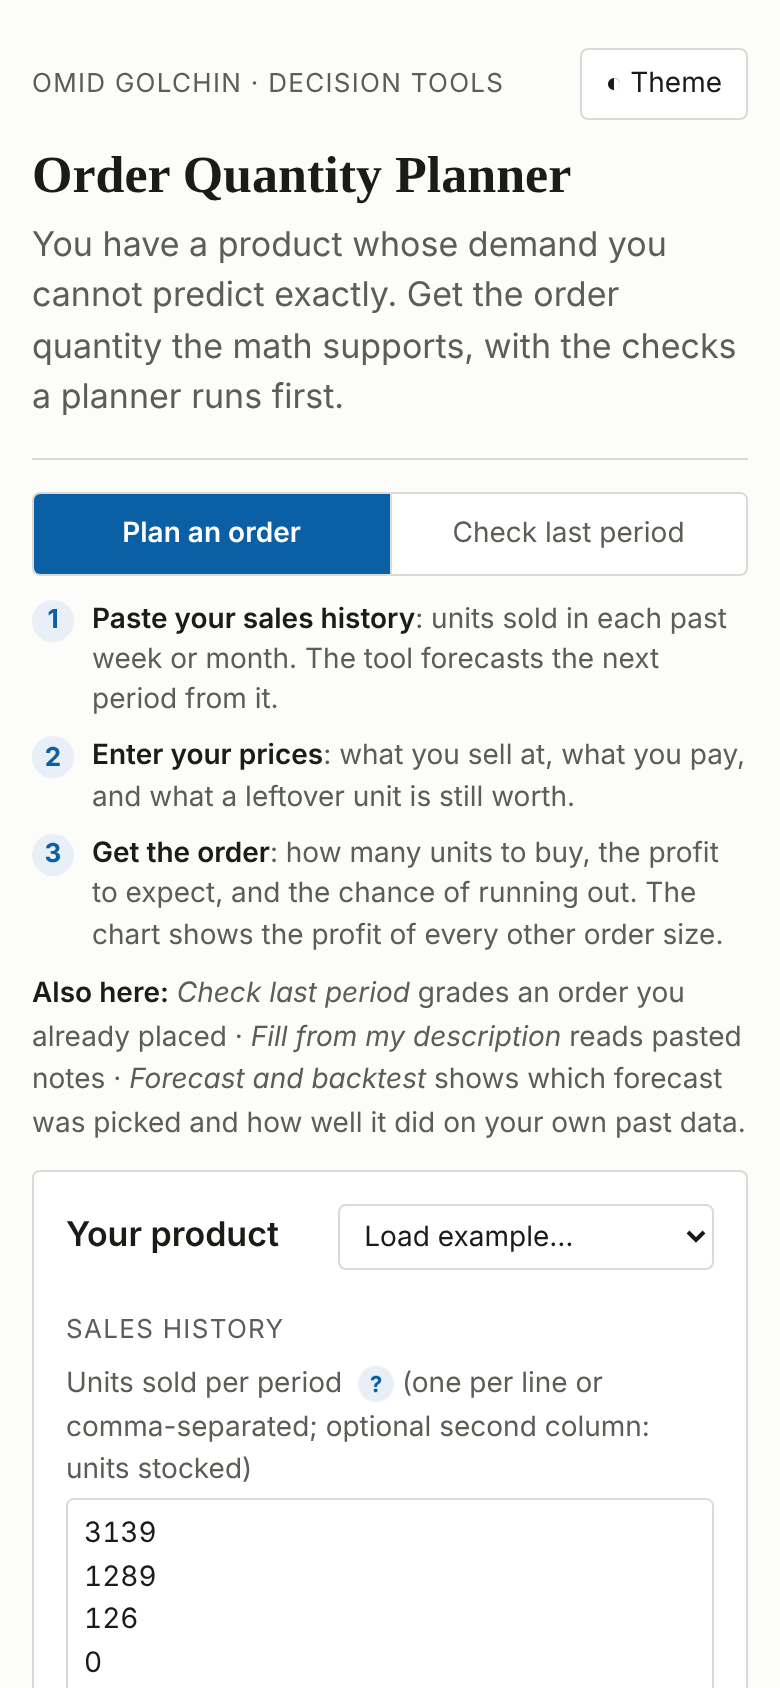
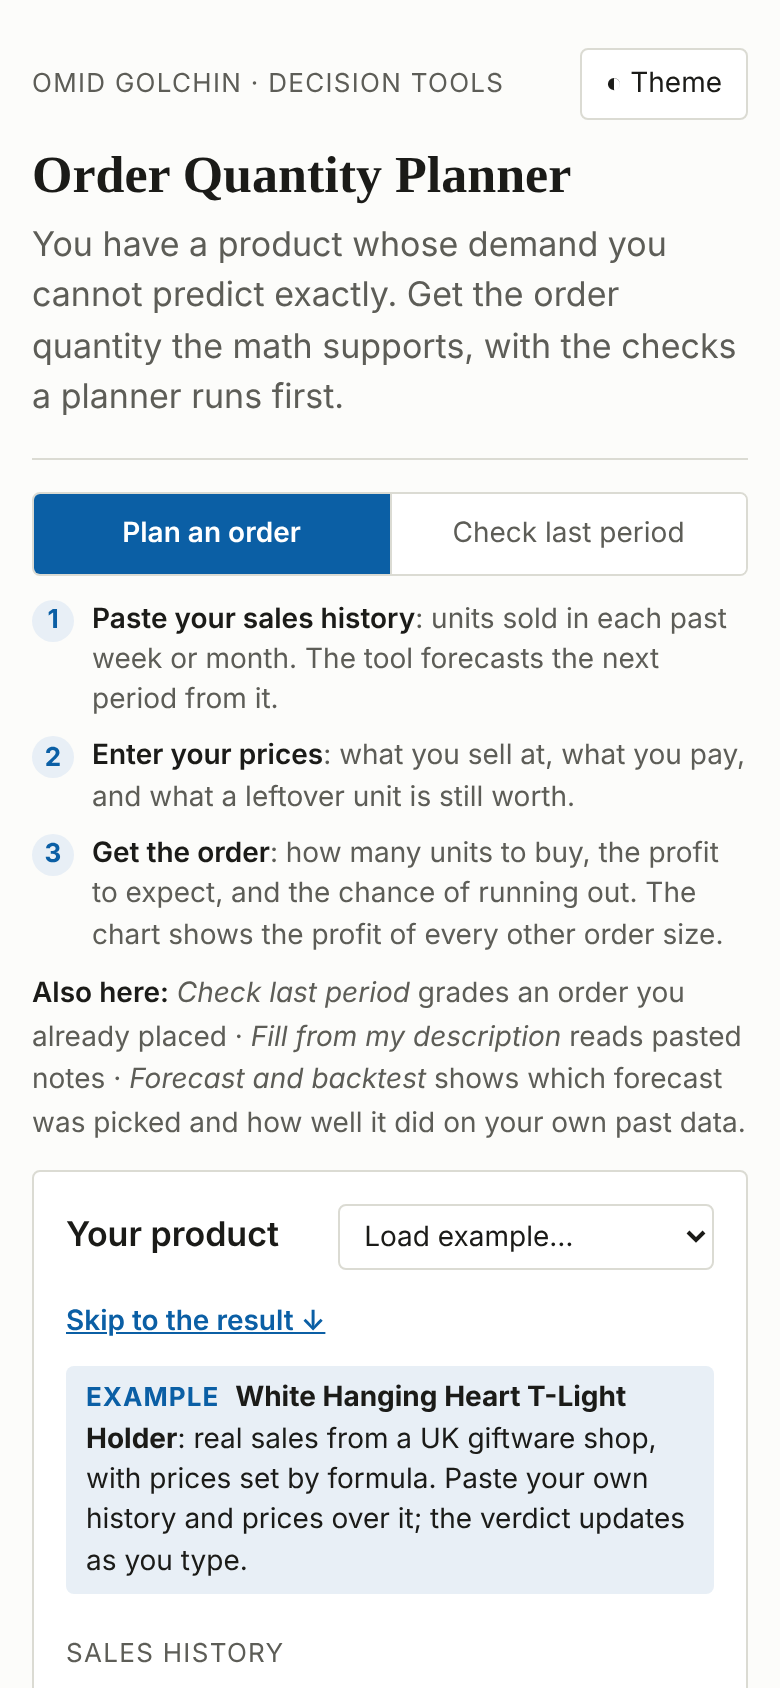
Mark the example where it sits; name the plan's product and prices in the grade; explain quantiles; one history rule
Kit: every ? has a hover title, a Skip to the result link on narrow screens, and an example banner for prefilled demo content. README, hero GIF and screenshots regenerated from the page.

Changed region(s): [[0.0615, 0.7701, 0.8923, 0.9858]]

diff --git a/docs/app.js b/docs/app.js
@@ -78,6 +78,7 @@
       $("price").value = pr.price; $("cost").value = pr.cost; $("salvage").value = pr.salvage; $("goodwill").value = "";
     }
     $("historyHint").textContent = p.name + " · " + slot.history.length + " " + per + "s of sales (Online Retail II, UCI, CC BY 4.0). Prices start at the product's median price; cost at 60% of it.";
+    Tool.exampleBanner($("f-plan"), "<b>" + p.name + "</b>: real sales from a UK giftware shop, with prices set by formula. Paste your own history and prices over it; the verdict updates as you type.");
   }
   function currentDist(series, stock, period) {
     if (source.type === "product") {
@@ -173,9 +174,9 @@
 
   function renderChecks() {
     var plan = cur.plan, v = cur.prices, dist = cur.dist, out = [];
-    out.push(["info", "RATIO", "Critical ratio", "Your prices aim to cover demand " + F.pct(plan.ratio, 0) + " of the time: (" +
+    out.push(["info", "ORDER LEVEL", "Critical ratio", "Your prices aim to cover demand " + F.pct(plan.ratio, 0) + " of the time: (" +
       amt(v.price) + " − " + amt(v.cost) + (v.goodwill ? " + " + amt(v.goodwill) : "") + ") / (" + amt(v.price) + " − " + amt(v.salvage) +
-      (v.goodwill ? " + " + amt(v.goodwill) : "") + "). The order is the demand quantile at that level."]);
+      (v.goodwill ? " + " + amt(v.goodwill) : "") + "). The order is the demand quantile <button type=\"button\" data-tip=\"quantile\"></button> at that level: the amount that demand stays at or below " + F.pct(plan.ratio, 0) + " of the time."]);
     if (dist.intermittent) {
       out.push(["warn", "SPARSE", "Intermittent demand", F.pct(dist.zeroShare, 0) + " of periods sold nothing, so ETS and ARIMA are set aside: the plan samples your past periods directly."]);
     } else if (dist.backtest) {
@@ -197,7 +198,7 @@
       out.push(["info", "NOTE", "Censored demand", "No stock column, so sales are taken at face value. If you sold out in some periods, add a second column with the stock you held: those sales hide demand."]);
     }
     if (plan.state === "warn") {
-      out.push(["warn", "THIN", "History", "Only " + cur.series.length + " periods (" + cur.series.filter(function (x) { return x > 0; }).length + " with any sales). More history would tighten this a lot."]);
+      out.push(["warn", "THIN", "History", "Only " + cur.series.length + " periods (" + cur.series.filter(function (x) { return x > 0; }).length + " with any sales). The tool runs from 3 periods, races forecast methods from 20, and trusts the forecast fully from " + (cur.prices.period === "month" ? "12 months" : "26 weeks") + " with at least 12 periods of sales."]);
     } else if (plan.state === "good") {
       out.push(["ok", "OK", "History", cur.series.length + " periods: enough to race the forecast methods and judge the winner."]);
     }
@@ -311,7 +312,10 @@
     else if (gap > tol) { title = "You left about " + money(gap) + " on the table"; cls = "warn"; }
     else if (ordered > r.planOrder && !ranOut && sold < ordered) { title = "You ordered more than the plan, and it shows"; cls = "warn"; }
     else title = "Close to the plan";
-    var body = "The plan would have ordered " + F.int(r.planOrder) + " units; you ordered " + F.int(ordered) + " and sold " + F.int(sold) +
+    var basis = (source.type === "product" && byId[source.id] ? byId[source.id].name : "your pasted sales history") +
+      " at price " + amt(v.price) + ", cost " + amt(v.cost) + ", leftover worth " + amt(v.salvage) + (v.goodwill ? ", lost-sale cost " + amt(v.goodwill) : "");
+    var body = "Graded against " + basis + ", taken from Plan an order; change them there if they are not this product's. " +
+      "The plan would have ordered " + F.int(r.planOrder) + " units; you ordered " + F.int(ordered) + " and sold " + F.int(sold) +
       ". Your realized profit was " + money(r.realizedProfit) + ". In expectation (one period is a single draw, so luck plays its part), your quantity earns " +
       money(r.expProfitYours) + " against the plan's " + money(r.expProfitPlan) + "." +
       (ranOut ? " Because you sold out, demand was at least " + F.int(ordered) + " units: your sales are a floor on demand, not demand itself." : "");
@@ -331,7 +335,7 @@
     cks.push(ordered === r.planOrder
       ? ["ok", "MATCH", "Against the plan", "You ordered exactly what the plan recommends."]
       : ["info", "NOTE", "Against the plan", "You ordered " + Math.abs(ordered - r.planOrder) + (ordered > r.planOrder ? " more" : " fewer") + " than the plan. The expected cost of that gap is " + money(Math.max(0, gap)) + " a period."]);
-    cks.push(["info", "ONE DRAW", "Luck", "A single period cannot prove an order was wrong: judge the rule over many periods, not this one."]);
+    cks.push(["info", "LUCK VS DECISION", "Luck", "A single period cannot prove an order was wrong: judge the rule over many periods, not this one."]);
     $("cChecks").innerHTML = cks.map(function (c) {
       return '<div class="check is-' + c[0] + '"><span class="badge">' + c[1] + '</span><div><span class="c-name">' + c[2] + '.</span> <span class="c-text">' + c[3] + "</span></div></div>";
     }).join("");
@@ -379,6 +383,7 @@
       $("period").value = "week";
       $("price").value = ex.price; $("cost").value = ex.cost; $("salvage").value = ex.salvage; $("goodwill").value = ex.goodwill;
       $("historyHint").textContent = "A pasted example: two columns, units sold and units stocked. Most weeks sold everything on the shelf.";
+      Tool.exampleBanner($("f-plan"), "<b>" + ex.label + "</b>: a constructed example. Paste your own history and prices over it.");
     } else {
       state.period = "week"; $("period").value = "week";
       loadProduct(ex.product, false);
@@ -389,7 +394,7 @@
   ["price", "cost", "salvage", "goodwill"].forEach(function (id) {
     $(id).addEventListener("input", debounce(runPlan, 150));
   });
-  $("history").addEventListener("input", debounce(function () { source = { type: "paste" }; runPlan(); }, 300));
+  $("history").addEventListener("input", debounce(function () { source = { type: "paste" }; Tool.exampleBanner($("f-plan"), null); runPlan(); }, 300));
   $("period").addEventListener("change", function () {
     state.period = this.value;
     if (source.type === "product") loadProduct(source.id, true);
@@ -489,6 +494,7 @@
       cr: { t: "How the order size is chosen", d: "This is the newsvendor problem. Order until one more unit is as likely to lose money as to make it. That happens at the <i>critical ratio</i>: underage cost ÷ (underage + overage), where underage = price − cost (+ lost-sale cost) and overage = cost − salvage. The order is the demand level with that probability of not being exceeded." },
       stockout: { t: "Chance of running out", d: "The probability that demand next period exceeds the order. Ordering for zero stockouts is almost never profitable; the right level depends on your margins." },
       gap: { t: "Gap to the plan", d: "How much more profit the plan's order would have earned on average than your order, given what was known before the period. It grades the decision, not the luck of one period." },
+      quantile: { t: "Quantile", d: "The 43% quantile of demand is the amount that demand stays at or below 43% of the time. Ordering the critical-ratio quantile means you run out in the remaining share of periods, which is exactly the balance your prices make worthwhile." },
       censored: { t: "Sold-out periods", d: "When you sell out, true demand was at least what you sold, maybe more. Treating that period as exact demand underestimates demand and leads to ordering too little next time. The tool treats sold-out periods as 'at least'." },
       curve: { t: "Profit by order size", d: "For every order size, the average profit over thousands of simulated demand draws from the forecast. The peak is the best order. A flat top means you have room; a steep side shows which mistake (too few or too many) costs more." }
     });

diff --git a/docs/tool-common.js b/docs/tool-common.js
@@ -9,6 +9,7 @@
  *   Tool.explain(glossary)         "?" buttons that open a plain-language explanation
  *   Tool.siblings(currentRepo)     the "More tools" footer line, from one shared list
  *   Tool.tabs(tablist)             arrow-key support for a mode switch
+ *   Tool.exampleBanner(form, text) marks prefilled example content where it sits
  *
  * No dependencies. Works from file:// and on GitHub Pages.
  */
@@ -433,6 +434,7 @@
       if (btn.tagName === "BUTTON") btn.type = "button";
       if (!btn.textContent.trim()) btn.textContent = "?";
       btn.setAttribute("aria-label", "What is " + g.t.replace(/[.?:]$/, "") + "?");
+      btn.title = "Explain: " + g.t.replace(/[.?:]$/, "");
       btn.setAttribute("aria-expanded", "false");
       // keep the "?" on the same line as the last word before it
       var prev = btn.previousSibling;
@@ -531,16 +533,45 @@
     sync(); new MutationObserver(sync).observe(list, { subtree: true, attributes: true, attributeFilter: ["aria-selected"] });
   }
 
+
+  /* ---------------- example banner, jump to result ---------------- */
+  // Marks prefilled example content where it sits, so a first-time visitor
+  // does not read the demo verdict as their own. text = null hides it.
+  function exampleBanner(form, text) {
+    if (!form) return;
+    var b = form.querySelector(":scope > .ex-banner");
+    if (!text) { if (b) b.hidden = true; return; }
+    if (!b) {
+      b = document.createElement("p"); b.className = "ex-banner"; b.setAttribute("role", "status");
+      var head = form.querySelector(":scope > .panel-head");
+      if (head && head.nextSibling) form.insertBefore(b, head.nextSibling); else form.insertBefore(b, form.firstChild);
+    }
+    b.hidden = false;
+    b.innerHTML = '<span class="ex-tag">Example</span> ' + text;
+  }
+  // On narrow screens the inputs come first; give a way straight to the result.
+  function jumpLinks() {
+    document.querySelectorAll(".work").forEach(function (w, i) {
+      var form = w.querySelector("form.panel"), v = w.querySelector(".verdict");
+      if (!form || !v || form.querySelector(".jump")) return;
+      if (!v.id) v.id = "result-" + i;
+      var a = document.createElement("a"); a.className = "jump"; a.href = "#" + v.id; a.textContent = "Skip to the result ↓";
+      var head = form.querySelector(":scope > .panel-head");
+      if (head && head.nextSibling) form.insertBefore(a, head.nextSibling); else form.insertBefore(a, form.firstChild);
+    });
+  }
+
   if (typeof document !== "undefined") {
     document.addEventListener("DOMContentLoaded", function () {
       var m = location.pathname.match(/\/([^\/]+)\/(?:docs\/)?(?:index\.html)?$/);
       siblings(m ? m[1] : "");
       tabs();
       alignFields();
+      jumpLinks();
     });
   }
 
-  var api = { explain: explain, alignFields: alignFields, closeTip: closeTip, siblings: siblings, tabs: tabs, TOOLS: TOOLS, readParams: readParams, writeParams: writeParams, copy: copy, fmt: fmt, lineChart: lineChart, niceTicks: niceTicks, assist: assist, _buildPrompt: buildPrompt, _parseReply: parseReply, _quoteFound: quoteFound, _coerce: coerce };
+  var api = { explain: explain, alignFields: alignFields, exampleBanner: exampleBanner, jumpLinks: jumpLinks, closeTip: closeTip, siblings: siblings, tabs: tabs, TOOLS: TOOLS, readParams: readParams, writeParams: writeParams, copy: copy, fmt: fmt, lineChart: lineChart, niceTicks: niceTicks, assist: assist, _buildPrompt: buildPrompt, _parseReply: parseReply, _quoteFound: quoteFound, _coerce: coerce };
   if (typeof module !== "undefined" && module.exports) module.exports = api;
   if (typeof window !== "undefined") window.Tool = api;
 })();

diff --git a/docs/index.html b/docs/index.html
@@ -51,7 +51,7 @@
           <div class="group-label">Sales history</div>
           <div class="field full"><label for="history">Units sold per period <button type="button" data-tip="demand"></button> <span class="muted">(one per line or comma-separated; optional second column: units stocked)</span></label>
             <textarea id="history" rows="5" spellcheck="false"></textarea>
-            <div class="hint" id="historyHint">Most recent last. At least 8 periods; a year or more lets the tool find seasonality. If you sold out in some periods, add the units you had in a second column so those periods count as "at least" that many.</div></div>
+            <div class="hint" id="historyHint"></div><div class="hint">One number per period, most recent last. The tool runs from 3 periods, races forecast methods from 20, and trusts the forecast fully from 26 weeks (12 months). If you sold out in some periods, add the units you had as a second column so those periods count as "at least" that many.</div></div>
           <div class="field full"><label for="csvFile">…or upload a CSV <span class="muted">(date, units[, stock])</span></label>
             <input id="csvFile" type="file" accept=".csv,text/csv"><div class="hint">A spreadsheet export works: a date column, then units sold, then (optional) units stocked.</div></div>
           <div class="field"><label for="period">Period length</label>

diff --git a/docs/tool.css b/docs/tool.css
@@ -138,3 +138,7 @@ select.example { font-size: var(--fs-small); }
 .fields.sg-on > :not(.sg) { margin-bottom: var(--sp-3); }
 .fields.sg-on > .group-label { margin: var(--sp-2) 0 6px; }
 .field-after:empty { display: none; }
+.ex-banner { margin: 0 0 var(--sp-3); padding: 6px 10px; border-radius: var(--radius); background: var(--accent-soft); color: var(--fg); font-size: var(--fs-small); line-height: 1.45; }
+.ex-banner .ex-tag { display: inline-block; font-size: var(--fs-caption); font-weight: 700; letter-spacing: .04em; text-transform: uppercase; color: var(--accent); margin-right: 4px; }
+.jump { display: none; }
+@media (max-width: 820px) { .jump { display: inline-block; margin: 0 0 var(--sp-3); font-size: var(--fs-small); font-weight: 600; } }

diff --git a/README.md b/README.md
@@ -1,6 +1,6 @@
 # Order Quantity Planner
 
-A planner that turns a product's sales history into an order quantity: the newsvendor optimum for your price, cost and salvage, with the demand forecast chosen by backtest on the product's own history, and the risk of the order shown next to the number.
+For anyone who buys stock for a product whose demand they cannot predict exactly: paste the product's past sales and your prices, and get how many units to order, the profit to expect, and the chance of running out. Too few and you lose sales; too many and you are left with stock. The planner finds the order where those two risks balance for your margins, using a forecast chosen by testing it on the product's own past.
 
 ![The planner on three products (a steady seller, a seasonal product, a shop that sold out most weeks), how the order size is chosen, and the check of last period's order](docs/hero.gif)
 
@@ -11,19 +11,28 @@ A planner that turns a product's sales history into an order quantity: the newsv
 ## What it does
 
 Ordering for one period is a bet: order too few and you lose sales (and
-customers), order too many and you eat the leftovers. The newsvendor
-model prices that bet. The critical ratio,
+customers), order too many and you eat the leftovers. How much of each
+risk is worth taking depends on your margins. If a lost sale costs you
+much more than a leftover, you should order well above the forecast;
+if leftovers are expensive, below it.
+
+The math behind it is the newsvendor model. Its critical ratio,
 
 > (price − cost + goodwill) / (price − salvage + goodwill),
 
-says which quantile of next period's demand to order. This planner
-builds that demand distribution from the product's own history: a
-forecast method is chosen by rolling-origin backtest (seasonal naive
+is the share of periods your order should cover: you order the amount
+of demand that is not exceeded that often (that demand quantile). This
+planner builds the demand distribution from the product's own history:
+a forecast method is chosen by rolling-origin backtest (seasonal naive
 vs ETS vs ARIMA, lowest one-step error wins), its point forecast is
 spread by its own residuals into scenarios, and every figure on the
 page is computed from those scenarios, so the order, the expected
 profit, the stock-out chance and the leftovers all describe the same
 distribution.
+
+History: the planner runs from 3 periods, races forecast methods from
+20, and trusts the forecast fully from 26 weeks (12 months) with at
+least 12 periods of sales.
 
 Two modes:
 
